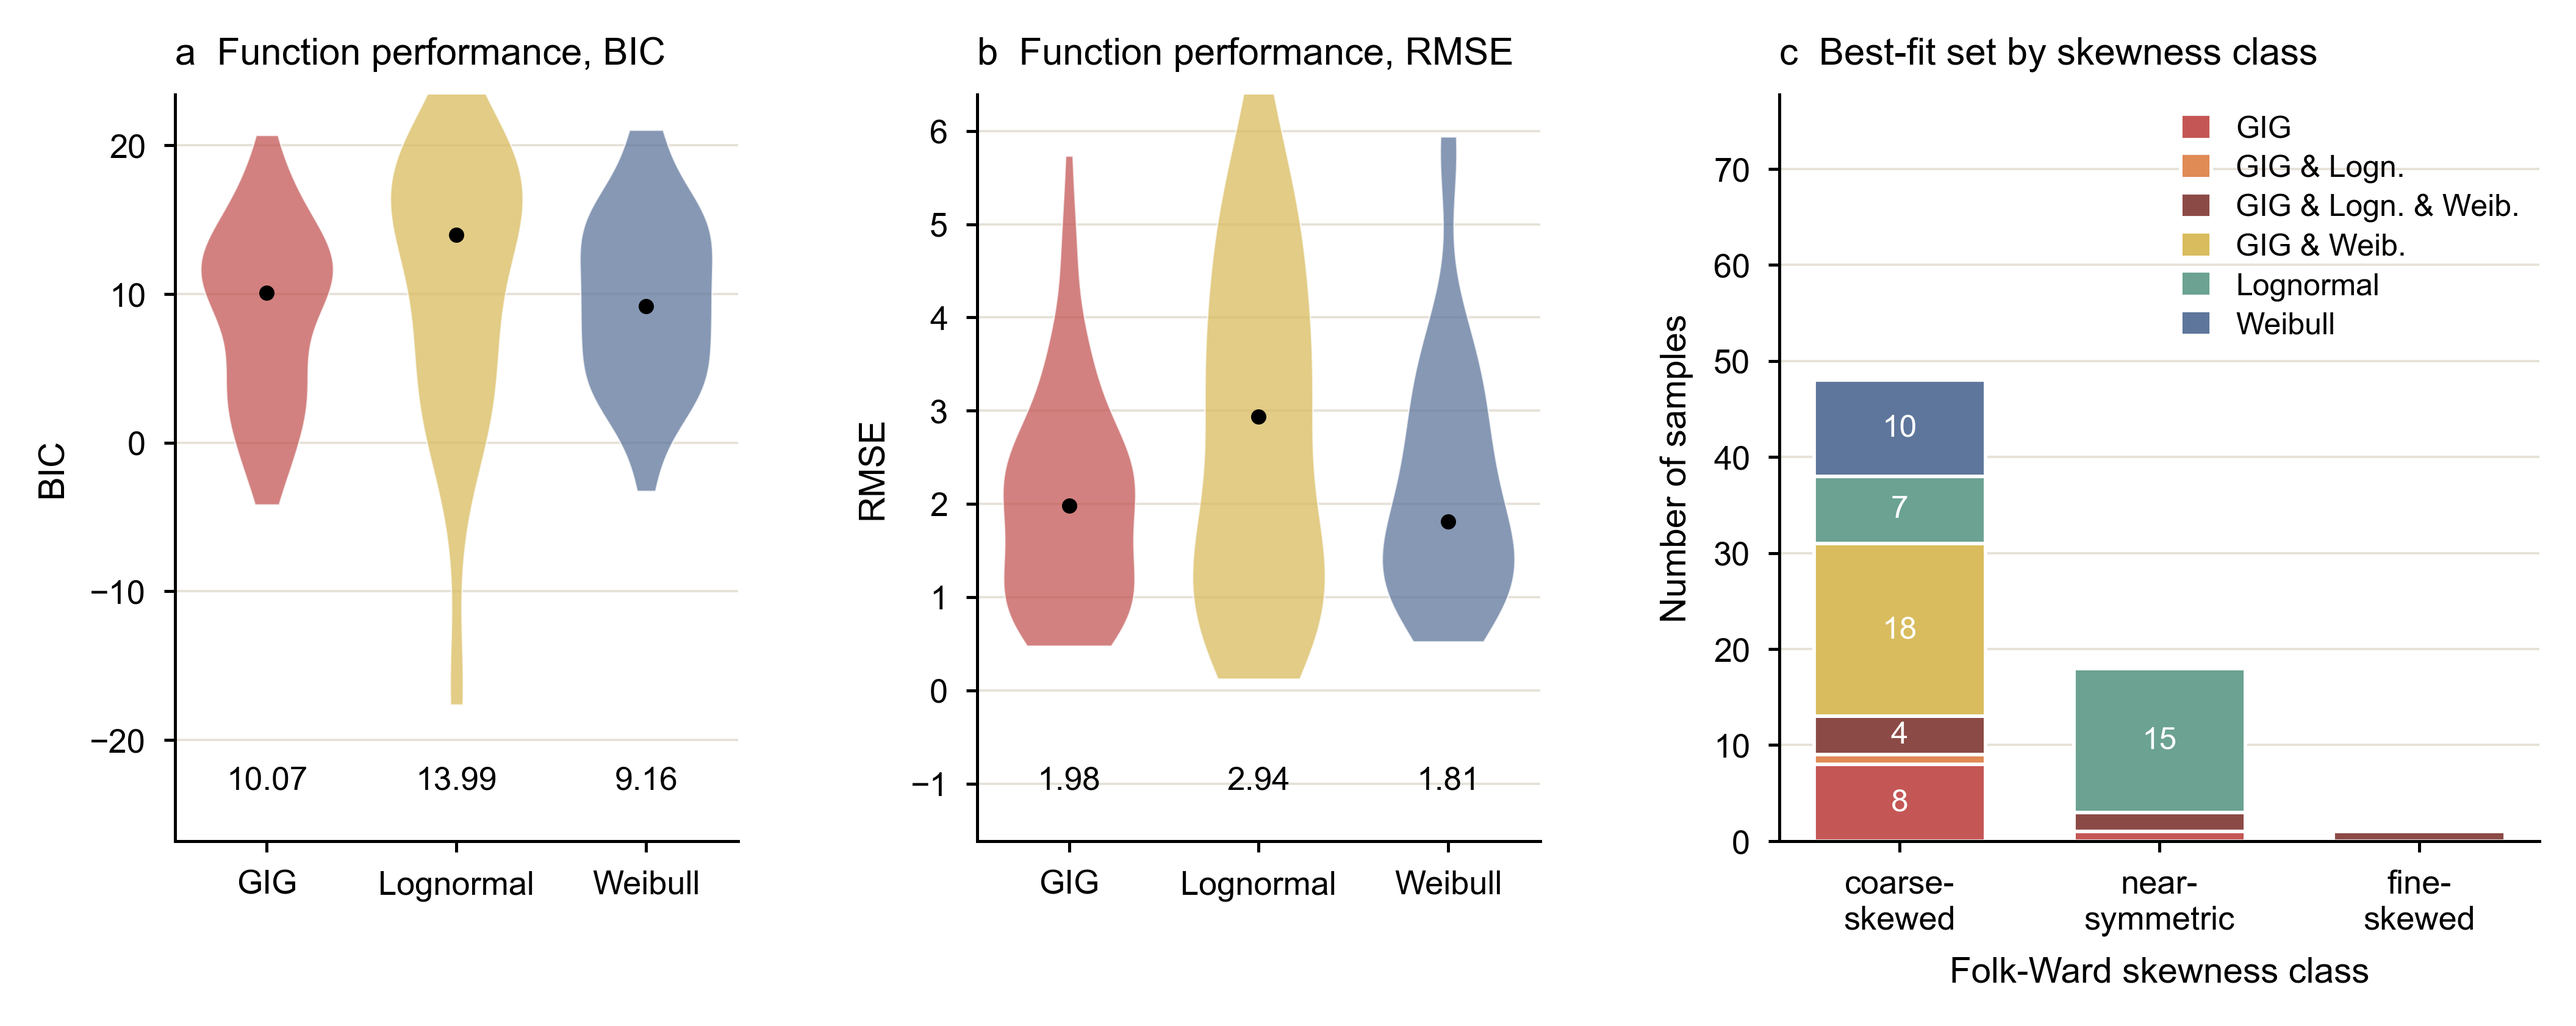
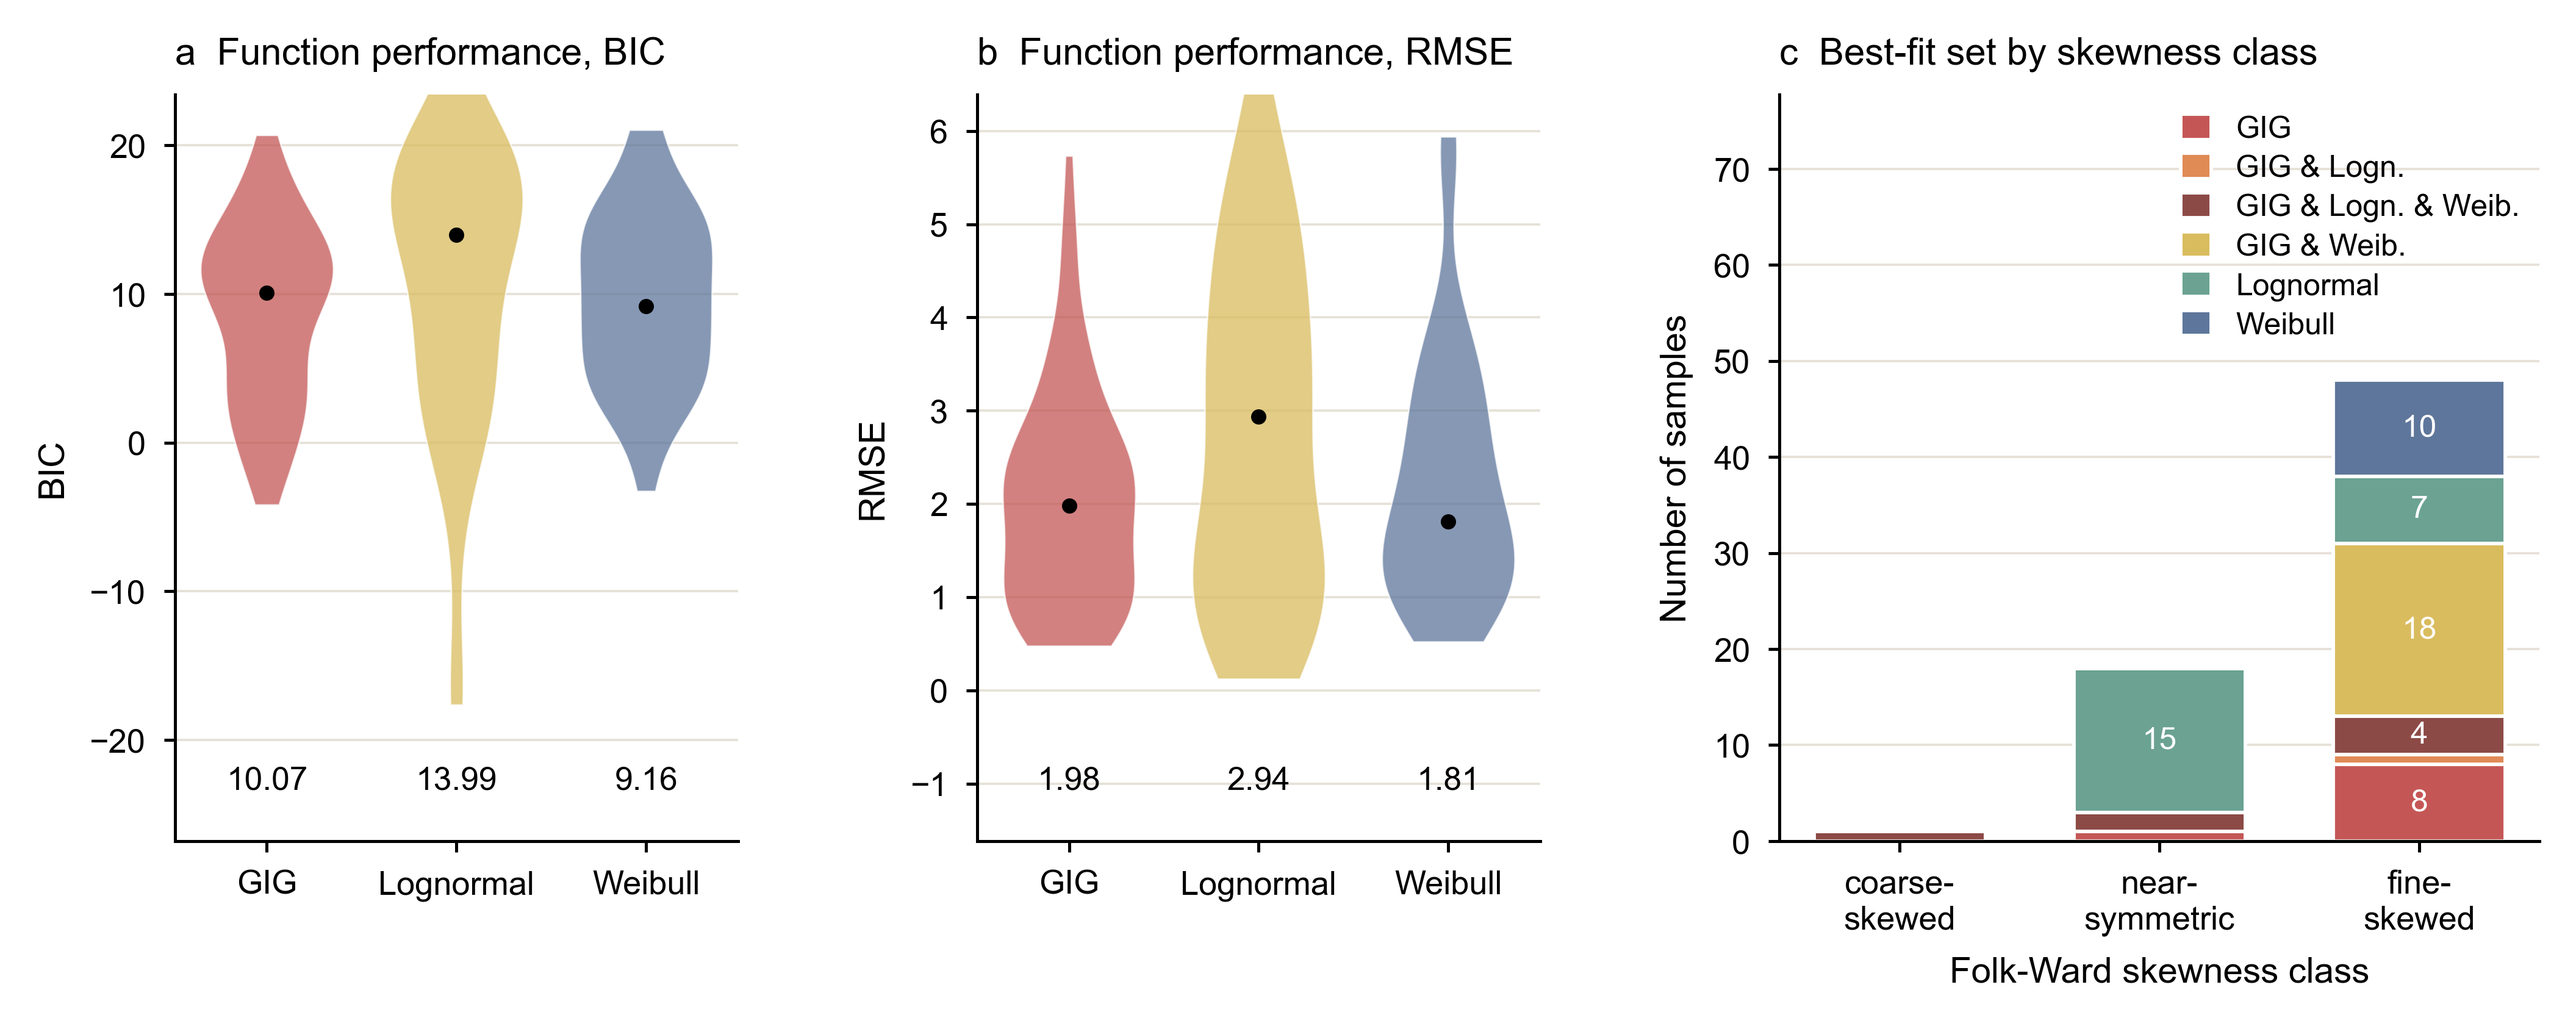
Fix the Folk-Ward phi convention: the Lower Rhine is fine-skewed
`folk_ward` in 06_rhine_summary.py took phi_p as -log2(D_p). The phi percentile
subscripts are complementary to the millimetre ones -- phi16 is -log2(D84), because
phi runs the opposite way to D -- so both the spread and the tail denominators came
out negated, and with them the skewness. The graphic mean and kurtosis were
unaffected, which is why this survived: the visible tell was `stand_div_FW` coming
out negative, and a sorting coefficient cannot be negative.

CONUS was never affected. It reads Kseniia's precomputed skew_FW column; only the
Lower Rhine went through this function.

This reverses a claim I put in the audit and in submission/README.md. The manuscript
is right: the Lower Rhine is 48 fine-skewed, 18 near-symmetric, 1 coarse-skewed, not
48 coarse-skewed. The whole Rhine audit section now agrees, 9 of 9.

The corrected classes are also the coherent ones. Among the 48 fine-skewed samples
Weibull is in the best-fit set for 32 and Lognormal for 12; among the 18
near-symmetric, Lognormal is in 17. That is the CONUS pattern of Fig. 2c reproduced
on independent data, which is what the Rhine paragraph claims.

Validated two ways and locked in by tests: a synthetic fine-tailed distribution now
gives +0.39 and a coarse-tailed one -0.26 with positive sorting; and all four
statistics reproduce Kseniia's CONUS column to 1e-15 on 2,000 samples, so the two
datasets are now on one standard.

Changed region(s): [[0.8996, 0.371, 0.9927, 0.8347], [0.6825, 0.371, 0.7755, 0.8347]]

diff --git a/tests/test_pipeline.py b/tests/test_pipeline.py
@@ -296,3 +296,63 @@ def test_fitting_uses_every_sieve_grade():
     config = load_config(ROOT / "configs" / "fit_usgs.yaml")
     _, size_columns = load_input_data(config)
     assert len(size_columns) == 43
+
+
+# ------------------------------------------------------------- Folk-Ward phi
+
+def _folk_ward():
+    import importlib.util
+    spec = importlib.util.spec_from_file_location(
+        "rhine_summary", ROOT / "scripts" / "06_rhine_summary.py")
+    module = importlib.util.module_from_spec(spec)
+    spec.loader.exec_module(module)
+    return module.folk_ward
+
+
+def test_folk_ward_skewness_sign_and_positive_sorting():
+    """Positive skewness must mean fine-skewed, and sorting must be positive.
+
+    Regression test: the phi percentile subscripts are complementary to the
+    millimetre ones (phi16 = -log2(D84)). Using the same subscript on both scales
+    leaves the mean and kurtosis right but negates the sorting and the skewness,
+    which inverted every Lower Rhine skewness class.
+    """
+    folk_ward = _folk_ward()
+    sizes = np.array([0.0625, 0.25, 1.0, 4.0, 16.0, 64.0])
+    fine = folk_ward(sizes, np.array([12.0, 20.0, 30.0, 55.0, 90.0, 100.0]))
+    coarse = folk_ward(sizes, np.array([0.0, 10.0, 45.0, 70.0, 80.0, 100.0]))
+    assert fine["skew_FW"] > 0.1, "a fine tail must give positive Folk-Ward skewness"
+    assert coarse["skew_FW"] < -0.1, "a coarse tail must give negative Folk-Ward skewness"
+    assert fine["stand_div_FW"] > 0 and coarse["stand_div_FW"] > 0
+
+
+@pytest.mark.skipif(not (DATA / "usgs_sample_statistics.csv").exists(),
+                    reason="run scripts/00_fetch_inputs.py first")
+def test_folk_ward_matches_the_conus_statistics_table():
+    """The Rhine statistics must be computed on the same standard as the CONUS ones."""
+    from psd_gig.config import load_config
+    from psd_gig.fit_data import load_diameter_lookup, load_input_data
+
+    folk_ward = _folk_ward()
+    config = load_config(ROOT / "configs" / "fit_usgs.yaml")
+    data, size_columns = load_input_data(config)
+    lookup = load_diameter_lookup(config, size_columns)
+    published = pd.read_csv(DATA / "usgs_sample_statistics.csv").set_index("sample_ID")
+
+    checked = 0
+    for _, sample in data.head(200).iterrows():
+        values = pd.to_numeric(sample[size_columns], errors="coerce").dropna()
+        key = int(sample["sample_ID"])
+        if len(values) < 5 or key not in published.index:
+            continue
+        sizes = lookup.loc[values.index, "d"].to_numpy(float)
+        order = np.argsort(sizes)
+        stats = folk_ward(sizes[order], values.to_numpy(float)[order])
+        reference = published.loc[key]
+        if not np.isfinite(stats["skew_FW"]) or not np.isfinite(reference["skew_FW"]):
+            continue
+        checked += 1
+        for column in ("skew_FW", "stand_div_FW", "mean_size_FW", "kurtosis_FW"):
+            assert stats[column] == pytest.approx(reference[column], abs=1e-9), \
+                f"{column} disagrees with the published statistics for sample {key}"
+    assert checked >= 50

diff --git a/scripts/06_rhine_summary.py b/scripts/06_rhine_summary.py
@@ -63,8 +63,15 @@ def d_value(sizes: np.ndarray, percents: np.ndarray, target: float) -> float:
 
 
 def folk_ward(sizes: np.ndarray, percents: np.ndarray) -> dict[str, float]:
+    """Folk & Ward (1957) graphic statistics, in phi = -log2(D).
+
+    The phi percentile subscripts are complementary to the millimetre ones, because
+    phi runs the opposite way to D: phi16 is -log2(D84), not -log2(D16). Getting this
+    wrong leaves the graphic mean and kurtosis untouched but negates the sorting and
+    the skewness, so `stand_div_FW` coming out negative is the tell.
+    """
     d = {p: d_value(sizes, percents, p) for p in (5, 16, 25, 50, 75, 84, 95)}
-    phi = {p: -np.log2(value) for p, value in d.items()}
+    phi = {p: -np.log2(d[100 - p]) for p in (5, 16, 25, 50, 75, 84, 95)}
     spread = phi[84] - phi[16]
     tail = phi[95] - phi[5]
     return {

diff --git a/scripts/audit_numbers.py b/scripts/audit_numbers.py
@@ -258,11 +258,9 @@ def check_rhine() -> None:
     record("rhine", "Weibull best-fit share (%)", 52,
            best.str.contains("Weibull").mean() * 100, 0.6)
     counts = samples["skew_class"].value_counts()
-    record("rhine", "main text: 48 samples are FINE-skewed", 48,
-           int(counts.get("fine-skewed", 0)), 0,
-           note="the 48 are COARSE-skewed under the paper's own Folk-Ward convention")
-    record("rhine", "  of which coarse-skewed", 48, int(counts.get("coarse-skewed", 0)), 0)
+    record("rhine", "fine-skewed samples", 48, int(counts.get("fine-skewed", 0)), 0)
     record("rhine", "near-symmetric samples", 18, int(counts.get("near-symmetric", 0)), 0)
+    record("rhine", "coarse-skewed samples", 1, int(counts.get("coarse-skewed", 0)), 0)
 
 
 def check_table_s5() -> None:
